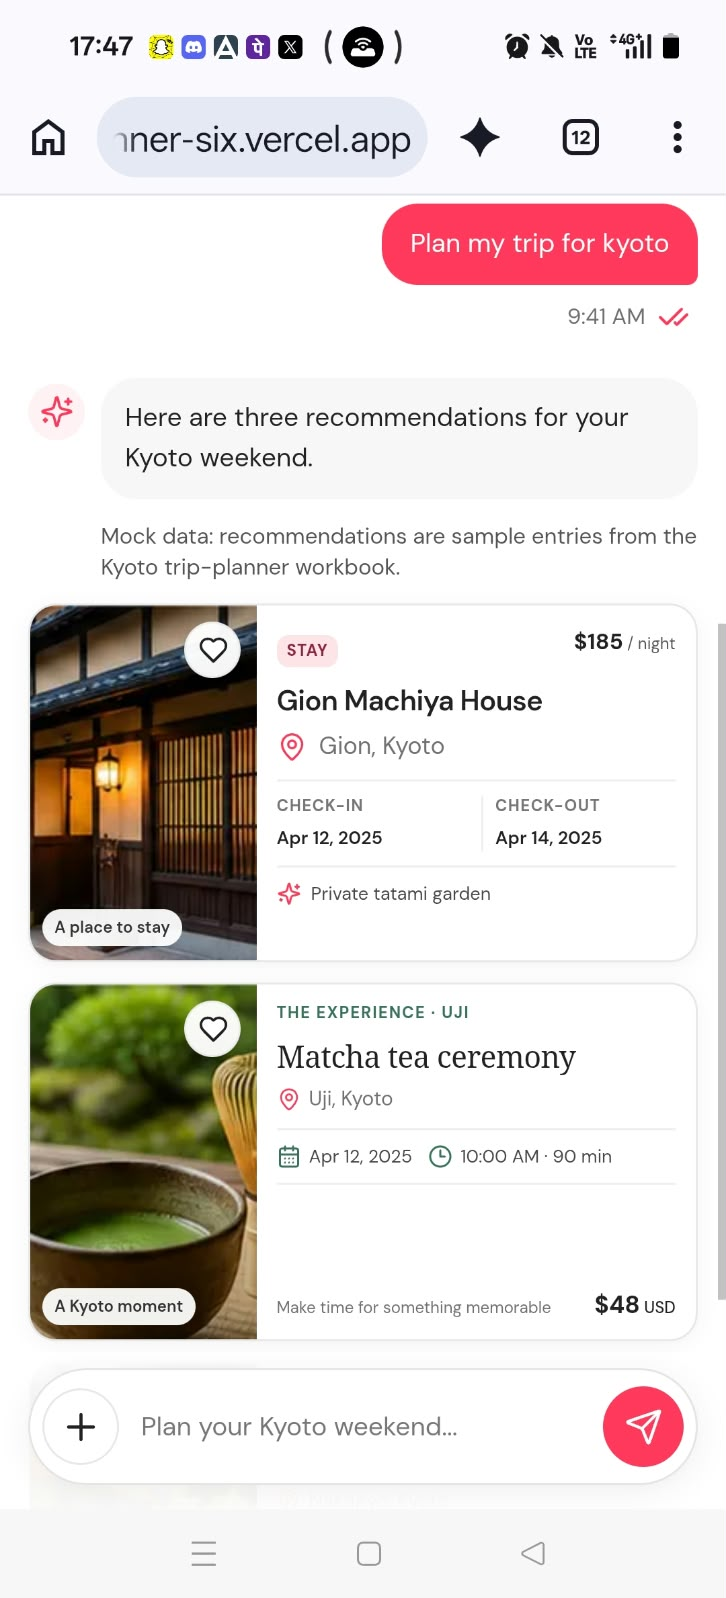
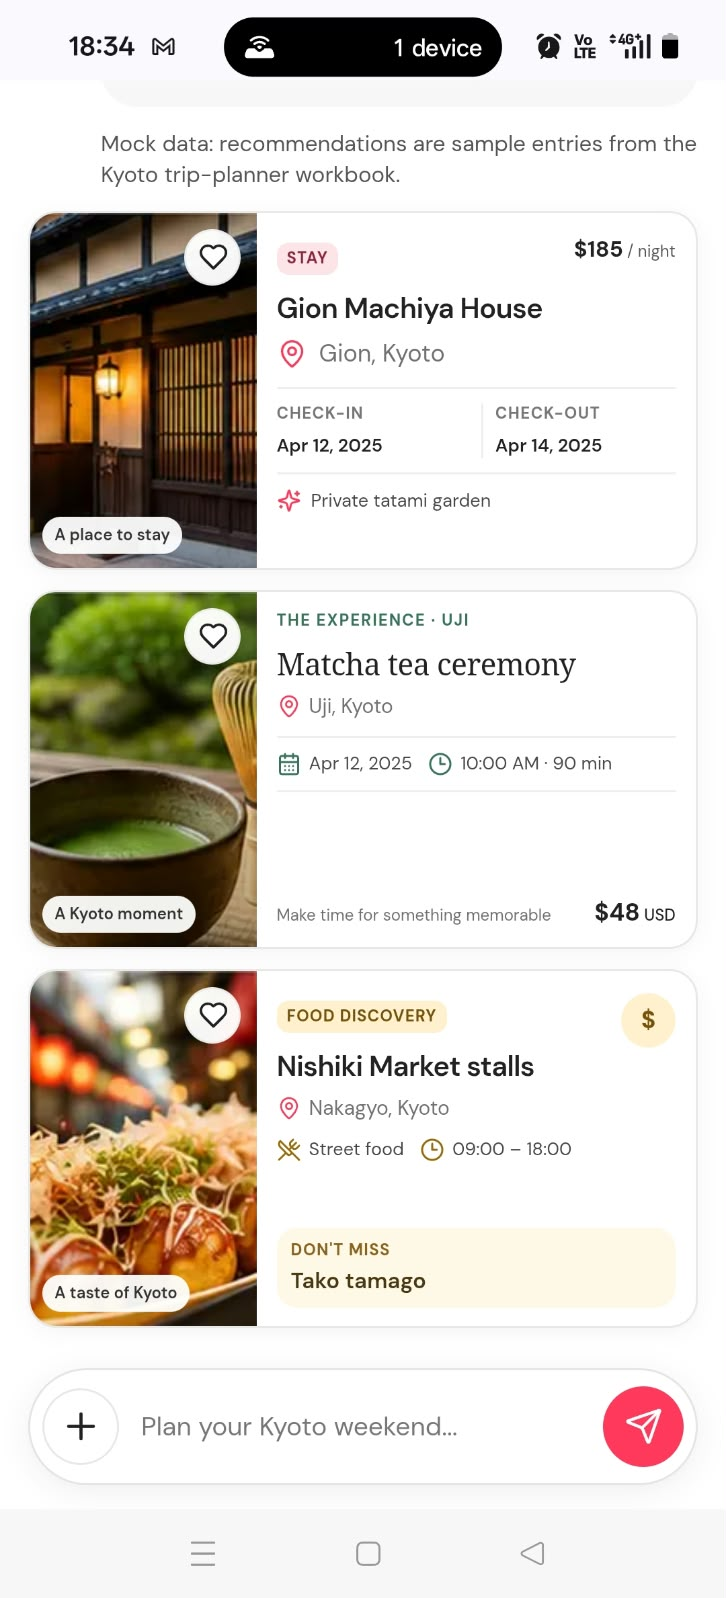
Update README sharing message and Android evidence

diff --git a/README.md b/README.md
@@ -1,10 +1,10 @@
 # Kyoto Trip Planner
 
+**Public prototype:** https://kyoto-trip-planner-six.vercel.app/
+
 An Airbnb-inspired conversational trip planner that helps guests discover a stay, an experience, and food recommendations for a Kyoto weekend through a single chat request.
 
 ## Research Session Checklist
-
-**Public prototype:** [Open the Kyoto Trip Planner](https://kyoto-trip-planner-six.vercel.app/)
 
 **GitHub repository:** [Azodeuse9/kyoto-trip-planner](https://github.com/Azodeuse9/kyoto-trip-planner)
 
@@ -24,7 +24,7 @@ An Airbnb-inspired conversational trip planner that helps guests discover a stay
 
 **Team message — project-context draft**
 
-Hi research team — The Kyoto Trip Planner prototype is ready for moderated testing. Please send the public Vercel link to the session moderator before the sessions so they can prepare. The moderator should share it with each of the eight test guests at the start of their session. Use the README checklist to record each guest’s experience and review the observations with the team after all eight sessions. The prototype uses mock recommendations, not live availability or bookings.
+Hi research team — Please send the public Kyoto Trip Planner link to the session moderator before the sessions so they can prepare. At each session’s start, the moderator should share it with the guest. Ask guests to try “Plan a weekend trip to Kyoto for two.” and use “break my trip” to test error recovery. Record observations in the README checklist and review them with the team after all eight sessions. Recommendations are mock data, not live availability or bookings.
 
 This is a project-context draft, not wording copied from the unavailable “Moderated Session Prototype Requirements: Trip-Planner Chat” document.
 
@@ -77,7 +77,7 @@ Captured from fresh private browser contexts on the public Vercel deployment. Fu
 
 ## Real Android Device Testing
 
-These screenshots were captured on a physical Android phone, not a resized desktop viewport. The retry-success image shows the successful recommendation response; the thinking/loading screenshot is not used as retry-success evidence.
+These screenshots were captured on a physical Android phone, not a resized desktop viewport. The happy-path image shows all three recommendation cards, including the complete Food card above the fixed composer. The retry-success image shows the successful recommendation response; the thinking/loading screenshot is not used as retry-success evidence.
 
 **Happy path**
 
